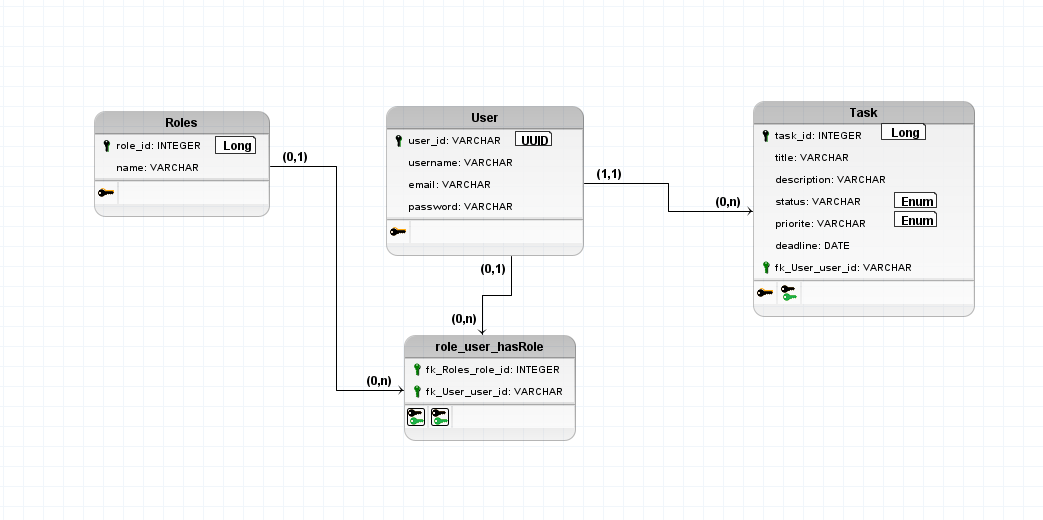
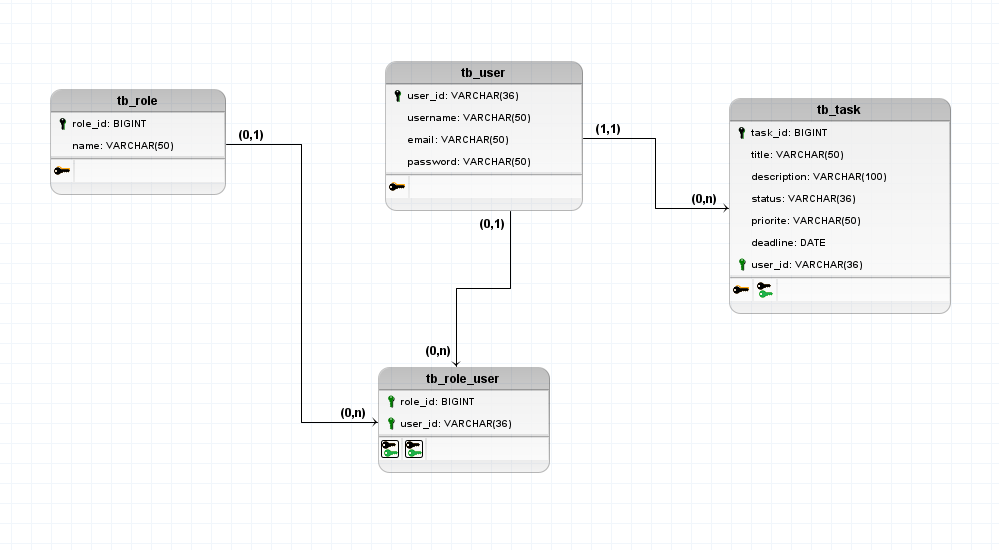
update  logic_model and created fisic_model

diff --git a/readme.md b/readme.md
@@ -37,6 +37,58 @@ The image below shows the logic model of the TaskGt project, illustrating the ta
 ![logic_model](./assets/images/logic_modeling.png)
 
 
+## 🗂 Fisic Model
+
+``` bash
+###tb_user
+ CREATE TABLE tb_user (
+    user_id VARCHAR(36) PRIMARY KEY,
+    username VARCHAR(50),
+    email VARCHAR(50),
+    password VARCHAR(50)
+);
+```
+
+```bash
+### tb_role
+CREATE TABLE tb_role (
+    role_id BIGINT PRIMARY KEY,
+    name VARCHAR(50)
+);
+```
+```bash
+### tb_role_user
+CREATE TABLE tb_role_user (
+    role_id BIGINT,
+    user_id VARCHAR(36)
+);
+ 
+ALTER TABLE tb_role_user ADD CONSTRAINT FK_tb_role_user_1
+    FOREIGN KEY (role_id)
+    REFERENCES tb_role (role_id);
+ 
+ALTER TABLE tb_role_user ADD CONSTRAINT FK_tb_role_user_2
+    FOREIGN KEY (user_id)
+    REFERENCES tb_user (user_id);
+```
+```bash
+###tb_task
+CREATE TABLE tb_task (
+    task_id BIGINT PRIMARY KEY,
+    title VARCHAR(50),
+    description VARCHAR(100),
+    status VARCHAR(36),
+    priorite VARCHAR(50),
+    deadline DATE,
+    user_id VARCHAR(36)
+);
+ 
+ALTER TABLE tb_task ADD CONSTRAINT FK_tb_task_2
+    FOREIGN KEY (user_id)
+    REFERENCES tb_user (user_id)
+    ON DELETE CASCADE;
+
+```
 
 
 
